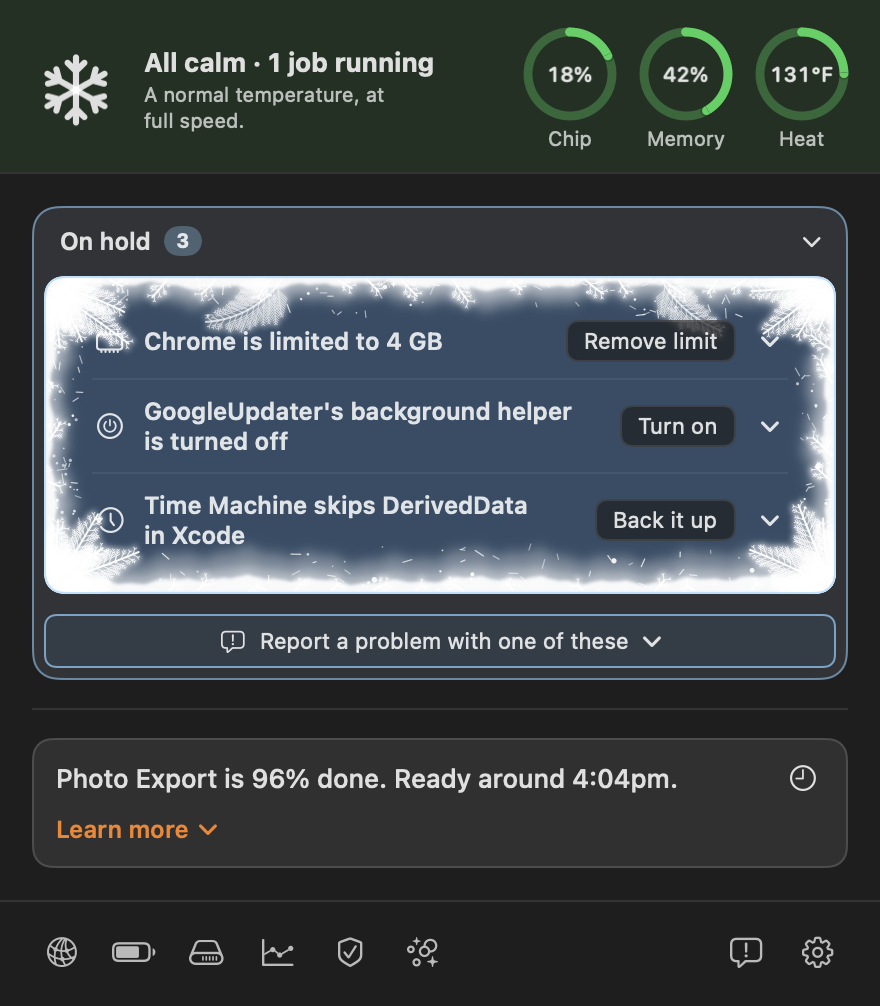
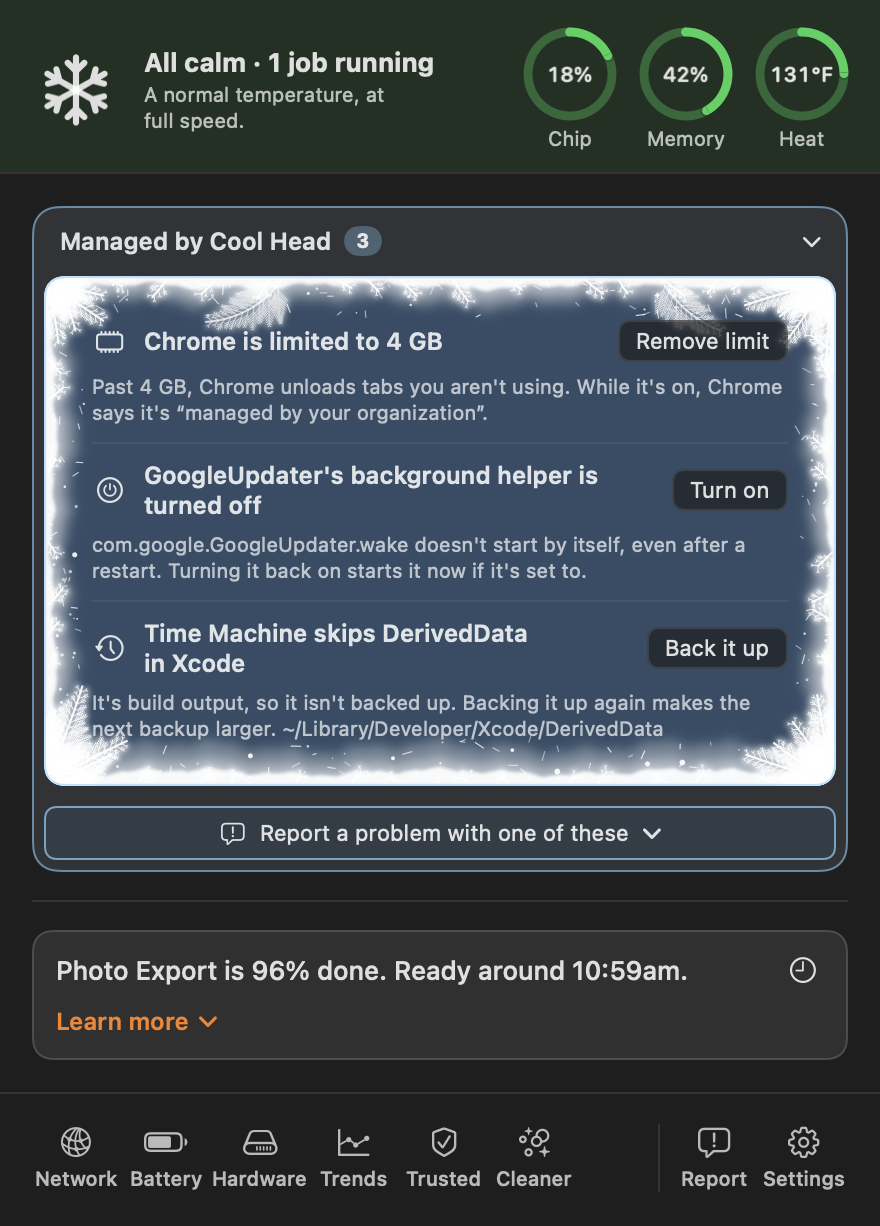
Release 0.12.0 (#75)
Cool Head 0.12.0: a minor release, since six of its seven notes are in
Changed.

- CHANGELOG.md has a 0.12.0 section, gathered by
`scripts/gather-changes.sh` from the 7 entries in `changes/` (6 changed,
1 fixed), and those files are removed.
- `VERSION` and `CoolHead.version` are 0.12.0. `scripts/check-version.sh
v0.12.0` passes.
- What's new has 5 short notes for 0.12.0.
- The README's pinned screenshots (light and dark, made-up samples) are
redrawn to show Managed by Cool Head in place of On hold. The panel
screenshots are unchanged.
- `swift build -c release` and `.build/release/coolhead selftest` pass,
185 of 185.

Once this merges and `build` passes, tag the merged commit `v0.12.0`
("Cool Head 0.12.0") and push the tag.

Assisted by [Claude Code](https://claude.com/claude-code)

diff --git a/Sources/CoolHeadApp/PanelView.swift b/Sources/CoolHeadApp/PanelView.swift
@@ -733,6 +733,13 @@ struct WhatsNewCard: View {
 /// versions of CHANGELOG.md.
 enum WhatsNew {
     static let notes: [String: [String]] = [
+        "0.12.0": [
+            "What Cool Head is slowing, limiting, pausing, or has turned off is now Managed by Cool Head, and each line says what it is without a click.",
+            "Cleaner checks any folder you choose for identical copies, and the folders inside it, starting with Downloads.",
+            "Trends shows why your Mac woke as one bar split by reason, and says what each line means without a click.",
+            "What you type in Report a problem is kept until you send it or press Cancel.",
+            "About opens in front of the panel.",
+        ],
         "0.11.0": [
             "One thing opens at a time: a card, or Managed by Cool Head, which folds to one line with its count. An open card shows its recommended option, with the others folded below it.",
             "The panel is a little wider, and tall enough for all of Test my network.",

diff --git a/Sources/CoolHeadCore/CaseReport.swift b/Sources/CoolHeadCore/CaseReport.swift
@@ -3,7 +3,7 @@ import Security
 
 public enum CoolHead {
     /// Kept in step with the VERSION file; scripts/build-app.sh checks they match.
-    public static let version = "0.11.0"
+    public static let version = "0.12.0"
 }
 
 /// The anonymised report behind "Share this case": what Cool Head saw about a process it couldn't explain, with

diff --git a/CHANGELOG.md b/CHANGELOG.md
@@ -6,6 +6,21 @@ What changed in each version of Cool Head, newest first, in plain words. The for
 
 Changes waiting for the next release are in [changes/](changes/), one file each, so pull requests don't edit the same lines here. The release pull request gathers them into this file (see [RELEASING.md](RELEASING.md)).
 
+## [0.12.0] - 2026-11-19
+
+### Changed
+
+- Cleaner's check for identical copies works on any folder you choose, with Downloads chosen to start, and the folders inside it, and also finds Finder's duplicates, such as Report copy.pdf beside Report.pdf. It skips hidden folders and the inside of apps, and stops after 100,000 files.
+- The section at the top of the panel for what Cool Head is slowing, limiting, pausing, or has turned off is now called Managed by Cool Head, in place of On hold, which could read as turned off. Open, each line now shows what it is and since when, without a click.
+- Opening a tool folds Managed by Cool Head, and opening Managed by Cool Head closes the tool, the way opening one tool closes another, so one thing is open at a time.
+- What you type in Report a problem is kept if the panel closes or you open a tool, until you send it or press Cancel. It's kept in memory only, so quitting Cool Head drops it.
+- In Trends, what each app's share of the energy means now shows under it, without a click.
+- Trends' Why it woke from sleep now shows every wake as one bar split by reason, then a row for each reason with its color, a symbol, a short name, the count, and its share, and what it means under it.
+
+### Fixed
+
+- About now opens in front of the panel; in 0.11.0 it still opened behind it. Choosing a folder to check for identical copies no longer closes the panel.
+
 ## [0.11.0] - 2026-11-18
 
 ### Changed
@@ -326,7 +341,8 @@ Changes waiting for the next release are in [changes/](changes/), one file each,
 
 - This download has no signature file: signing began with 0.3.0, the first version that updates itself.
 
-[Unreleased]: https://github.com/ThePhilDiamond/CoolHead/compare/v0.11.0...HEAD
+[Unreleased]: https://github.com/ThePhilDiamond/CoolHead/compare/v0.12.0...HEAD
+[0.12.0]: https://github.com/ThePhilDiamond/CoolHead/compare/v0.11.0...v0.12.0
 [0.11.0]: https://github.com/ThePhilDiamond/CoolHead/compare/v0.10.0...v0.11.0
 [0.10.0]: https://github.com/ThePhilDiamond/CoolHead/compare/v0.9.0...v0.10.0
 [0.9.0]: https://github.com/ThePhilDiamond/CoolHead/compare/v0.8.0...v0.9.0
